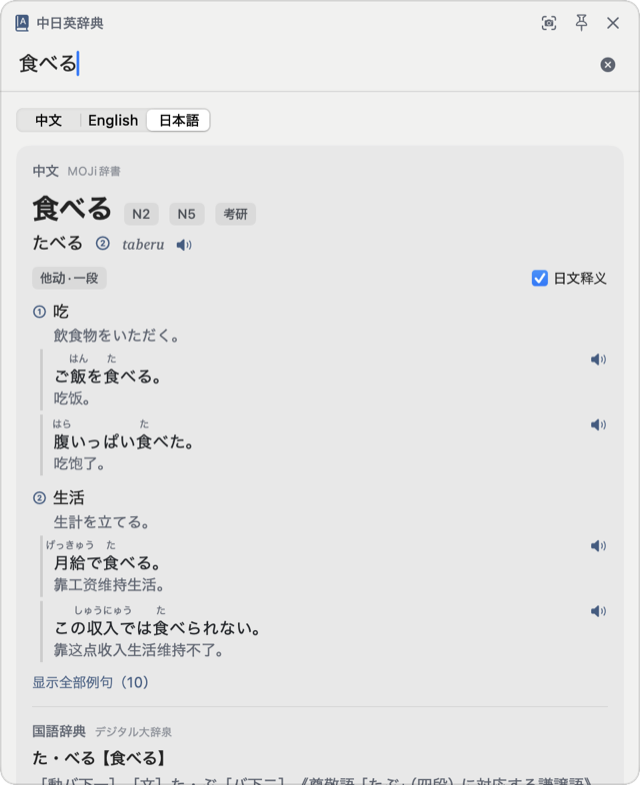
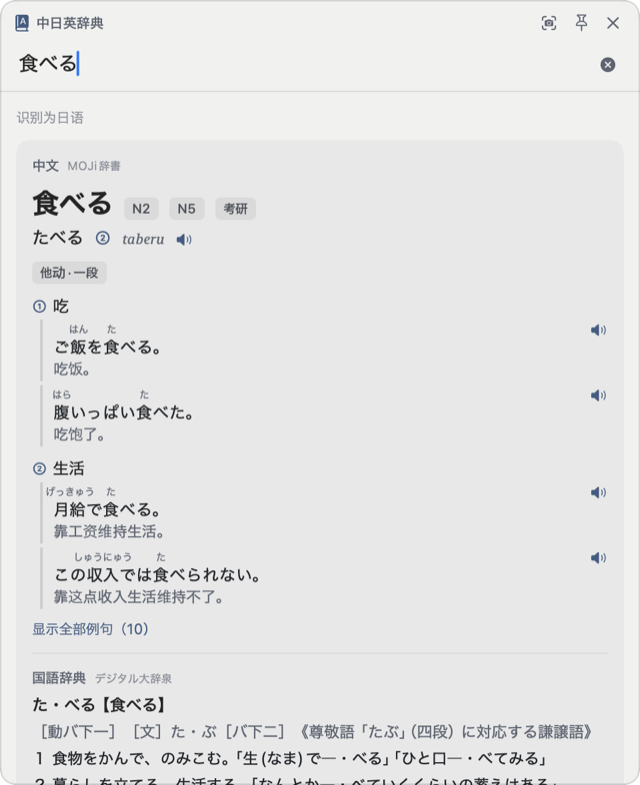
README: regenerate demos and screenshots, update features and FAQ
- All GIFs and light/dark screenshots regenerated with scripts/demo/make_demo.sh
  (one-line language hint, Bing translation, no MOJi Japanese gloss)
- Features: sentence translation choice and long-text handling,
  Daijisen wording, zh/ja switch description
- FAQ: how to switch a misidentified Han word; offline translation
  requirements; drop the obsolete v1.2.1 copy/paste entry

diff --git a/README.md b/README.md
@@ -58,12 +58,13 @@
 **三语互译**
 - 输入任一语言，同时显示另外两种语言的结果
 - 单词显示词典释义，句子显示机器翻译
+- 句子翻译可选 Bing 翻译或 macOS 系统离线翻译，长文本自动分段翻译并保留原有分段
 
 **日语词典**
 - 读音、声调、罗马音、词性、JLPT 等级
 - 分义项的中文释义，例句附假名注音与中文翻译
 - 单词与例句均提供真人发音
-- 收录《デジタル大辞泉》日文释义
+- 日文释义来自《デジタル大辞泉》，可展开全部义项
 - 自动还原活用形，如「食べさせられた」→「食べる」
 - 同音词与相关词条
 
@@ -74,7 +75,7 @@
 
 **其他**
 - 日文原文与译文自动标注假名
-- 自动识别中文与日语，支持一键切换
+- 自动识别输入语言；「命令」「学习」这类中日都能成立的汉字词，可一键改按另一种语言查询
 - 释义中的词语可直接查询，支持返回
 - 常驻菜单栏，支持浅色与深色模式
 
@@ -135,13 +136,13 @@
 <details>
 <summary>查询失败或句子无翻译结果</summary>
 
-查询需要网络连接。可点击结果中的「重试」，或在输入框中按回车重新查询。句子翻译默认使用 Bing，可在「设置 › 通用」中改用系统离线翻译。
+查询需要网络连接。可点击结果中的「重试」，或在输入框中按回车重新查询。句子翻译默认使用 Bing，可在「设置 › 通用」中改用系统离线翻译，或开启「失败时自动换用另一个服务」。系统离线翻译需 macOS 26 或更高版本，并在「系统设置 › 通用 › 语言与地区 › 翻译语言」中下载中文、英语、日语。
 </details>
 
 <details>
-<summary>翻译窗口中无法复制、粘贴</summary>
+<summary>汉字词被识别成了另一种语言</summary>
 
-请升级至 v1.2.1 或更高版本。
+「命令」「学习」这类在中文、日语里都成立的汉字词，可能被识别为另一种语言。点击结果上方「识别为中文 · 改为日语」中的「改为…」即可切换。含有只属于一种语言的字（如「们」「経」）或含假名的文本不会识别错，不显示切换。
 </details>
 
 ## 数据来源与声明
